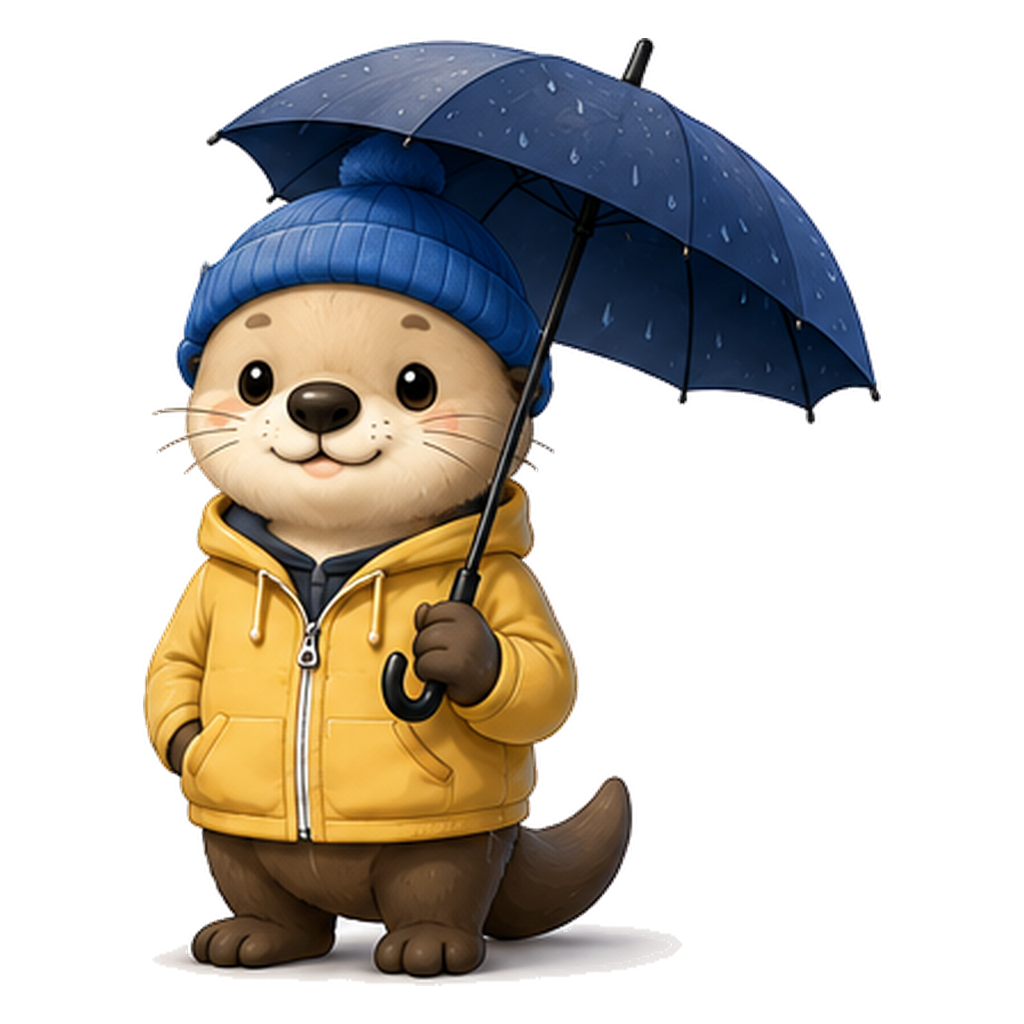
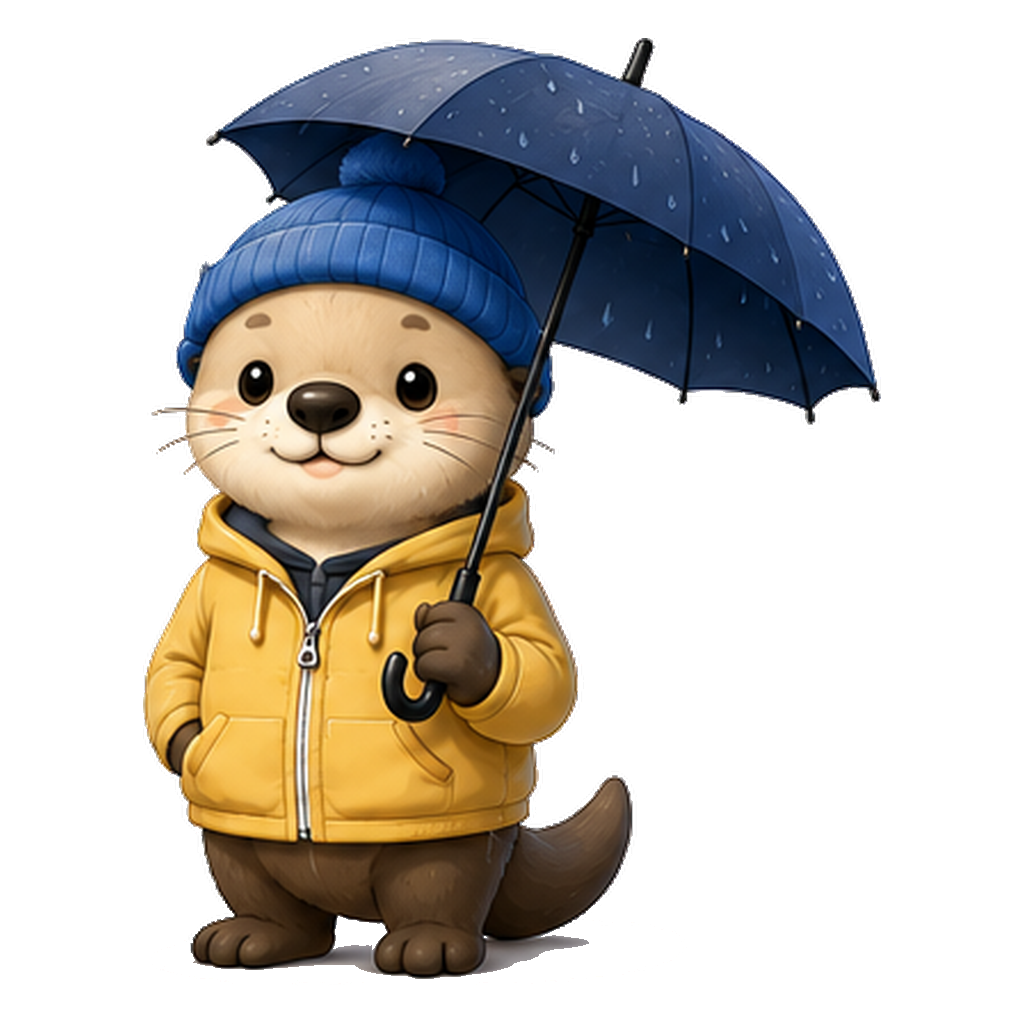
Improve weather refresh, freshness, and otter edges

Changed region(s): [[0.1562, 0.9062, 0.6562, 0.9688]]

diff --git a/assets/app.css b/assets/app.css
@@ -10,14 +10,14 @@
     .header{height:64px;display:flex;align-items:center;justify-content:space-between;gap:18px;margin-bottom:18px}
     .brand{display:flex;align-items:center;gap:12px;font-weight:900;font-size:clamp(20px,2vw,28px);letter-spacing:-.055em}.brand b{color:var(--blue)}
     .brand-cloud{position:relative;width:48px;height:30px;border-radius:20px;background:linear-gradient(145deg,#76b6ff,#1f6ce0);box-shadow:inset 0 -3px 5px rgba(10,67,150,.18)}.brand-cloud:before,.brand-cloud:after{content:"";position:absolute;border-radius:50%;background:inherit}.brand-cloud:before{width:22px;height:22px;left:8px;top:-10px}.brand-cloud:after{width:17px;height:17px;right:6px;top:-4px}.brand-sun{position:absolute;width:13px;height:13px;background:#ffb01c;border-radius:50%;right:-1px;top:-9px;box-shadow:0 0 0 4px rgba(255,176,28,.14)}
-    .header-actions{display:flex;align-items:center;gap:10px}.geo-status{display:flex;align-items:center;gap:8px;min-height:42px;padding:0 15px;border:1px solid var(--line);background:#fff;border-radius:999px;font-weight:750;font-size:13px;box-shadow:0 6px 20px rgba(35,75,132,.07)}.geo-status-dot{width:8px;height:8px;border-radius:50%;background:var(--green);box-shadow:0 0 0 4px rgba(23,133,78,.1)}
+    .header-actions{display:flex;align-items:center;gap:10px}.geo-status{display:flex;align-items:center;gap:8px;min-height:42px;padding:0 15px;border:1px solid var(--line);background:#fff;border-radius:999px;font-weight:750;font-size:13px;box-shadow:0 6px 20px rgba(35,75,132,.07)}.geo-status-dot{width:8px;height:8px;border-radius:50%;background:var(--green);box-shadow:0 0 0 4px rgba(23,133,78,.1)}.refresh-button{width:42px;height:42px;flex:0 0 42px;display:grid;place-items:center;border:1px solid var(--line);border-radius:50%;background:#fff;color:var(--blue);cursor:pointer;box-shadow:0 6px 20px rgba(35,75,132,.07)}.refresh-button:hover{background:#f4f8ff}.refresh-button:focus-visible{outline:3px solid rgba(7,90,216,.24);outline-offset:2px}.refresh-button:disabled{cursor:wait;opacity:.68}.refresh-button svg{width:21px;height:21px}.refresh-button.refreshing svg{animation:refresh-spin .8s linear infinite}@keyframes refresh-spin{to{transform:rotate(360deg)}}
     .units{display:grid;grid-template-columns:1fr 1fr;padding:3px;border:1px solid var(--line);border-radius:999px;background:#fff}.unit-button{width:38px;height:34px;border:0;background:transparent;border-radius:999px;font-weight:850;color:var(--muted);cursor:pointer}.unit-button.active{color:#fff;background:var(--blue)}
     .dashboard{display:grid;grid-template-columns:380px minmax(0,1fr);gap:18px}.left-stack{display:flex;flex-direction:column;gap:18px}
     .card{background:rgba(255,255,255,.94);border:1px solid var(--line);border-radius:var(--radius);box-shadow:var(--shadow)}
     .location-card{padding:22px}.kicker{display:block;margin-bottom:10px;font-size:12px;font-weight:900;letter-spacing:.06em;text-transform:uppercase;color:var(--ink-2)}
     .location-button{width:100%;min-height:86px;padding:0 20px;display:grid;grid-template-columns:28px 1fr 28px;align-items:center;gap:12px;border:3px solid var(--blue);border-radius:18px;background:#fff;box-shadow:0 0 0 5px rgba(7,90,216,.06),0 10px 22px rgba(7,90,216,.08);cursor:pointer;text-align:left}.location-button:hover{background:#f8fbff}.location-button:focus-visible{outline:4px solid rgba(7,90,216,.25);outline-offset:3px}.location-button svg{width:27px;height:27px}.location-name{min-width:0;font-size:clamp(19px,2vw,25px);font-weight:900;letter-spacing:-.035em;overflow:hidden;text-overflow:ellipsis;white-space:nowrap}.chevron{transition:transform .2s ease}.location-button[aria-expanded="true"] .chevron{transform:rotate(180deg)}
     .current-location-button{width:100%;min-height:58px;margin-top:14px;border:0;border-radius:15px;background:linear-gradient(180deg,#1267e4,#0755c8);color:white;font-weight:850;cursor:pointer;display:flex;justify-content:center;align-items:center;gap:10px;box-shadow:0 12px 24px rgba(7,90,216,.18)}.current-location-button:hover{filter:brightness(1.04)}.current-location-button svg{width:21px}
-    .recommendations{display:grid;grid-template-columns:1fr 1fr;gap:12px}.rec-card{padding:18px 16px;min-height:150px;position:relative;overflow:hidden}.rec-top{display:flex;align-items:center;gap:12px}.rec-icon{width:54px;height:54px;border-radius:17px;background:var(--blue-soft);display:grid;place-items:center;font-size:30px}.rec-title{font-weight:900;letter-spacing:-.025em}.rec-status{margin-top:3px;color:var(--green);font-size:13px;font-weight:850}.rec-desc{margin:14px 0 0;color:var(--muted);font-size:13px;line-height:1.45}.check{position:absolute;right:13px;top:13px;width:22px;height:22px;border-radius:50%;background:var(--green);color:#fff;display:grid;place-items:center;font-weight:900;font-size:13px}.rec-card.off .check{background:#aeb9cb}.rec-card.off .rec-status{color:#73819a}.rec-card.off .rec-icon{filter:grayscale(1);opacity:.7}
+    .recommendations{display:grid;grid-template-columns:1fr 1fr;gap:12px}.rec-card{padding:18px 16px;min-height:150px;position:relative;overflow:hidden}.rec-top{display:flex;align-items:center;gap:12px;padding-right:28px}.rec-top>div{min-width:0}.rec-icon{width:54px;height:54px;flex:0 0 54px;border-radius:17px;background:var(--blue-soft);display:grid;place-items:center;font-size:30px}.rec-title{font-weight:900;letter-spacing:-.025em}.rec-status{margin-top:3px;color:var(--green);font-size:13px;font-weight:850}.rec-desc{margin:14px 0 0;color:var(--muted);font-size:13px;line-height:1.45}.check{position:absolute;right:13px;top:13px;width:22px;height:22px;border-radius:50%;background:var(--green);color:#fff;display:grid;place-items:center;font-weight:900;font-size:13px}.rec-card.off .check{background:#aeb9cb}.rec-card.off .rec-status{color:#73819a}.rec-card.off .rec-icon{filter:grayscale(1);opacity:.7}
     .hero{min-height:500px;position:relative;overflow:hidden;border-radius:var(--radius);background:linear-gradient(155deg,#dff0ff 0%,#b9ddff 45%,#eaf7ff 100%);border:1px solid #c9def7;box-shadow:var(--shadow);isolation:isolate}.hero:before{content:"";position:absolute;inset:auto 0 0;height:33%;background:linear-gradient(180deg,rgba(255,255,255,0),rgba(255,255,255,.6)),linear-gradient(90deg,#b7d9ef,#e5f5ff);z-index:-2}.hero:after{content:"";position:absolute;left:-5%;right:-5%;bottom:12%;height:4px;background:rgba(67,114,153,.2);box-shadow:0 12px 18px rgba(63,116,158,.18);transform:rotate(-1deg);z-index:-1}
     .scenery{position:absolute;inset:0;pointer-events:none;z-index:-1;opacity:.64}.bridge{position:absolute;left:43%;bottom:20%;width:32%;height:38%}.bridge:before,.bridge:after{content:"";position:absolute;bottom:0;width:7px;height:100%;background:#8ea6c1;border-radius:4px}.bridge:before{left:18%}.bridge:after{right:18%}.bridge-deck{position:absolute;left:0;right:0;bottom:24%;height:5px;background:#8ea6c1}.bridge-cable{position:absolute;left:18%;right:18%;top:16%;height:45%;border-top:3px solid #8ea6c1;border-radius:50%}.hills{position:absolute;left:-5%;right:-5%;bottom:19%;height:20%;background:#9bb8cc;clip-path:polygon(0 65%,12% 30%,25% 60%,41% 10%,55% 66%,71% 24%,84% 58%,100% 31%,100% 100%,0 100%)}
     .hero-copy{width:55%;padding:38px 0 34px 38px;position:relative;z-index:2}.temp-line{display:flex;align-items:center;gap:14px}.temperature{font-size:clamp(68px,7vw,100px);line-height:.82;font-weight:950;letter-spacing:-.075em}.weather-icon{font-size:47px}.condition{margin-top:13px;font-size:20px;font-weight:900}.high-low{margin-top:5px;font-weight:750;color:var(--ink-2)}.verdict{margin:24px 0 10px;font-size:clamp(34px,3.6vw,52px);line-height:.95;letter-spacing:-.065em;font-weight:950}.reason{max-width:470px;margin:0;color:var(--ink-2);font-size:16px;line-height:1.5;font-weight:600}.provider{position:absolute;left:38px;bottom:18px;font-size:11px;color:#536684;font-weight:700}
@@ -85,5 +85,5 @@
     .toast{position:fixed;z-index:60;left:50%;bottom:calc(20px + var(--safe-bottom));transform:translate(-50%,20px);max-width:min(520px,calc(100% - 28px));padding:13px 17px;border-radius:14px;background:#10244b;color:#fff;font-size:13px;box-shadow:0 18px 45px rgba(0,20,50,.28);opacity:0;pointer-events:none;transition:.22s ease}.toast.show{opacity:1;transform:translate(-50%,0)}
     @media(max-width:900px){.dashboard{grid-template-columns:1fr}.left-stack{display:grid;grid-template-columns:1fr 1fr}.location-card{grid-column:1/-1}.hero{grid-row:1}.bottom-grid{grid-template-columns:1fr}.recommendations{grid-column:1/-1}.hero-copy{width:58%}}
     @media(max-width:620px){.shell{padding-left:12px;padding-right:12px}.header{height:58px;margin-bottom:12px}.brand{font-size:20px}.brand-cloud{transform:scale(.78);margin-right:-4px}.geo-status{display:none}.dashboard{gap:12px}.left-stack{display:flex;gap:12px}.location-card{padding:14px;border-radius:18px}.kicker{font-size:11px;margin:0 0 7px}.location-button{min-height:60px;border-width:2px;border-radius:14px;padding:0 14px;grid-template-columns:22px 1fr 22px}.location-button svg{width:21px;height:21px}.location-name{font-size:18px}.current-location-button{min-height:47px;margin-top:9px;border-radius:12px;font-size:14px}.hero{min-height:390px;border-radius:18px}.hero-copy{width:56%;padding:20px 0 18px 18px}.temperature{font-size:52px}.weather-icon{font-size:28px}.condition{font-size:13px;margin-top:8px}.high-low{font-size:11px}.verdict{font-size:27px;margin:18px 0 8px}.reason{max-width:165px;font-size:11.5px;line-height:1.32}.provider{position:static;margin-top:8px;font-size:9px}.mascot-wrap{right:-5%;width:58%;height:100%}.mascot-image{width:min(100%,360px)}.recommendations{gap:8px}.rec-card{min-height:92px;padding:12px}.rec-icon{width:42px;height:42px;border-radius:13px;font-size:24px}.rec-title{font-size:14px}.rec-desc{display:none}.check{right:9px;top:9px}.bottom-grid{gap:12px;margin-top:12px}.forecast-card,.details-card{padding:15px;border-radius:18px}.section-heading{align-items:flex-start;margin-bottom:13px}.section-title{font-size:16px}.section-subtitle{font-size:11px}.forecast-range{display:none}.hourly-shell{padding:6px;border-radius:16px}.hourly-scroll{grid-auto-columns:76px;gap:6px}.hour{min-height:132px;padding:12px 6px}.hour-icon{font-size:25px;margin:13px 0 9px}.hour-temp{font-size:19px}.details{display:grid;grid-template-columns:repeat(2,minmax(0,1fr));border-radius:16px}.metric{min-height:105px;display:grid;grid-template-columns:36px 1fr;grid-template-rows:auto auto;align-items:start;gap:2px 9px;padding:13px}.metric+.metric{border-left:0}.metric:nth-child(even){border-left:1px solid #e7eef8}.metric:nth-child(n+3){border-top:1px solid #e7eef8}.metric-icon{grid-row:1/3;align-self:start;width:36px;height:36px;border-radius:11px}.metric-icon svg{width:19px;height:19px}.metric-value{grid-column:2;font-size:20px}.metric-copy{grid-column:2}.metric-note{white-space:normal;font-size:9px}.settings{margin-top:12px;padding:13px;display:block;border-radius:18px}.profile-control{margin-top:10px;display:grid;grid-template-columns:repeat(3,1fr)}.profile-button{padding:8px 4px}.footer{padding-top:18px;display:block;text-align:center}.search-form{grid-template-columns:1fr}.search-button{min-height:48px}.modal{padding:18px}.units{transform:scale(.9);transform-origin:right}}
-    @media(max-width:340px){.header{gap:6px}.brand{min-width:0;gap:4px;font-size:17px}.brand-cloud{width:38px;flex:0 0 38px;margin-right:-5px}.header-actions{flex:0 0 auto}.units{margin-left:-5px}}
+    @media(max-width:340px){.header{gap:6px}.brand{min-width:0;gap:4px;font-size:16px}.brand-cloud{display:none}.header-actions{flex:0 0 auto;gap:6px}.refresh-button{width:38px;height:38px;flex-basis:38px}.units{margin-left:-5px}}
     @media(prefers-reduced-motion:reduce){*,*:before,*:after{animation-duration:.001ms!important;transition-duration:.001ms!important}}

diff --git a/assets/app.js b/assets/app.js
@@ -29,9 +29,9 @@
     };
     const storageGet=key=>{try{return localStorage.getItem(key)}catch{return null}};
     const storageSet=(key,value)=>{try{localStorage.setItem(key,value)}catch{}};
-    const state={unit:storageGet("naj.unit")||"fahrenheit",profile:storageGet("naj.profile")||"regular",location:{...CONFIG.defaultLocation,name:"Finding location…"},locationMode:"loading",weather:null,loading:false,dataMode:"loading",mascotToken:0};
+    const state={unit:storageGet("naj.unit")||"fahrenheit",profile:storageGet("naj.profile")||"regular",location:{...CONFIG.defaultLocation,name:"Finding location…"},locationMode:"loading",weather:null,loading:false,dataMode:"loading",mascotToken:0,weatherRequestToken:0};
     const $=id=>document.getElementById(id);
-    const els={locationButton:$("locationButton"),locationName:$("locationName"),geoStatusText:$("geoStatusText"),locationModal:$("locationModal"),closeModal:$("closeModal"),searchForm:$("searchForm"),searchInput:$("searchInput"),searchResults:$("searchResults"),modalStatus:$("modalStatus"),useCurrentLocation:$("useCurrentLocation"),useCurrentLocationTop:$("useCurrentLocationTop"),toast:$("toast"),temperature:$("temperature"),weatherIcon:$("weatherIcon"),condition:$("condition"),highLow:$("highLow"),verdict:$("verdict"),reason:$("reason"),updated:$("updated"),hero:$("hero"),mascot:$("mascot"),mascotImage:$("mascotImage"),jacketCard:$("jacketCard"),jacketIcon:$("jacketIcon"),jacketTitle:$("jacketTitle"),jacketStatus:$("jacketStatus"),jacketDescription:$("jacketDescription"),umbrellaCard:$("umbrellaCard"),umbrellaStatus:$("umbrellaStatus"),umbrellaDescription:$("umbrellaDescription"),feelsLike:$("feelsLike"),feelsNote:$("feelsNote"),wind:$("wind"),windNote:$("windNote"),rain:$("rain"),rainNote:$("rainNote"),sixHourLow:$("sixHourLow"),trendNote:$("trendNote"),hourlyForecast:$("hourlyForecast")};
+    const els={locationButton:$("locationButton"),locationName:$("locationName"),geoStatusText:$("geoStatusText"),refreshWeather:$("refreshWeather"),locationModal:$("locationModal"),closeModal:$("closeModal"),searchForm:$("searchForm"),searchInput:$("searchInput"),searchResults:$("searchResults"),modalStatus:$("modalStatus"),useCurrentLocation:$("useCurrentLocation"),useCurrentLocationTop:$("useCurrentLocationTop"),toast:$("toast"),temperature:$("temperature"),weatherIcon:$("weatherIcon"),condition:$("condition"),highLow:$("highLow"),verdict:$("verdict"),reason:$("reason"),updated:$("updated"),hero:$("hero"),mascot:$("mascot"),mascotImage:$("mascotImage"),jacketCard:$("jacketCard"),jacketIcon:$("jacketIcon"),jacketTitle:$("jacketTitle"),jacketStatus:$("jacketStatus"),jacketDescription:$("jacketDescription"),umbrellaCard:$("umbrellaCard"),umbrellaStatus:$("umbrellaStatus"),umbrellaDescription:$("umbrellaDescription"),feelsLike:$("feelsLike"),feelsNote:$("feelsNote"),wind:$("wind"),windNote:$("windNote"),rain:$("rain"),rainNote:$("rainNote"),sixHourLow:$("sixHourLow"),trendNote:$("trendNote"),hourlyForecast:$("hourlyForecast")};
     const CODES={0:["Clear","☀","clear"],1:["Mostly clear","🌤","clear"],2:["Partly cloudy","⛅","cloud"],3:["Cloudy","☁","cloud"],45:["Foggy","🌫","cloud"],48:["Foggy","🌫","cloud"],51:["Light drizzle","🌦","rain"],53:["Drizzle","🌦","rain"],55:["Heavy drizzle","🌧","rain"],56:["Freezing drizzle","🌧","rain"],57:["Freezing drizzle","🌧","rain"],61:["Light rain","🌦","rain"],63:["Rain","🌧","rain"],65:["Heavy rain","🌧","rain"],66:["Freezing rain","🌧","rain"],67:["Freezing rain","🌧","rain"],71:["Light snow","🌨","snow"],73:["Snow","🌨","snow"],75:["Heavy snow","❄","snow"],77:["Snow grains","❄","snow"],80:["Rain showers","🌦","rain"],81:["Rain showers","🌧","rain"],82:["Heavy showers","⛈","storm"],85:["Snow showers","🌨","snow"],86:["Heavy snow showers","❄","snow"],95:["Thunderstorms","⛈","storm"],96:["Thunderstorms","⛈","storm"],99:["Severe thunderstorms","⛈","storm"]};
     const safeJson=v=>{try{return v?JSON.parse(v):null}catch{return null}};
     const escapeHtml=v=>String(v??"").replace(/[&<>'"]/g,c=>({"&":"&amp;","<":"&lt;",">":"&gt;","'":"&#39;",'"':"&quot;"}[c]));
@@ -141,7 +141,25 @@
     function setLoading(value){state.loading=value}
     let toastTimer;
     function toast(message){clearTimeout(toastTimer);els.toast.textContent=message;els.toast.classList.add("show");toastTimer=setTimeout(()=>els.toast.classList.remove("show"),5200)}
-    function relativeTime(iso){const mins=Math.max(0,Math.round((Date.now()-new Date(iso).getTime())/60000));return mins<=1?"Updated just now":mins<60?`Updated ${mins} min ago`:`Updated ${new Date(iso).toLocaleTimeString([],{hour:"numeric",minute:"2-digit"})}`}
+    function relativeTime(iso){
+      const seconds=Math.max(0,Math.floor((Date.now()-new Date(iso).getTime())/1000));
+      if(seconds<60)return"Updated just now";
+      const minutes=Math.floor(seconds/60);if(minutes<60)return`Updated ${minutes}m ago`;
+      const hours=Math.floor(minutes/60);if(hours<24)return`Updated ${hours}h ago`;
+      return`Updated ${Math.floor(hours/24)}d ago`;
+    }
+    function updateFreshness(){
+      if(!state.weather)return;
+      const status=state.dataMode==="cached"?"Saved forecast":state.dataMode==="demo"?"Preview weather":"Live weather";
+      els.updated.textContent=`${status} · ${relativeTime(state.weather.fetchedAt||state.weather.updatedAt)}`;
+    }
+    function renderPendingWeather(){
+      els.temperature.textContent="—";els.weatherIcon.textContent="";els.condition.textContent="Updating conditions…";els.highLow.textContent="";
+      els.verdict.textContent="Checking outside…";els.reason.textContent=`Getting the latest six-hour outlook for ${state.location.name}.`;els.updated.textContent="";
+      els.jacketStatus.textContent="Updating";els.umbrellaStatus.textContent="Updating";els.hourlyForecast.innerHTML="";
+      els.feelsLike.textContent="—";els.wind.textContent="—";els.rain.textContent="—";els.sixHourLow.textContent="—";
+      els.mascotImage.style.backgroundImage="none";els.mascotImage.classList.remove("ready","changing");
+    }
 
     function render(){
       document.querySelectorAll(".unit-button").forEach(button=>button.classList.toggle("active",button.dataset.unit===state.unit));
@@ -174,8 +192,7 @@
       els.verdict.innerHTML=copy.headline;
       const profileText=decision.offset===0?"":` Your ${state.profile==="hot"?"Always hot":"Always cold"} profile shifts that to ${temp(decision.adjustedP10)}.`;
       els.reason.textContent=`The cold-end feels-like for the next six hours is ${temp(decision.p10)}.${profileText}`;
-      const status=state.dataMode==="cached"?"Saved forecast":state.dataMode==="demo"?"Preview weather":"Live weather";
-      els.updated.textContent=`${status} · ${relativeTime(weather.fetchedAt||weather.updatedAt)}`;
+      updateFreshness();
 
       updateMascot(decision.key,umbrellaYes);
       els.jacketIcon.textContent=copy.icon;
@@ -209,17 +226,21 @@
       }).join("");
     }
 
-    async function loadWeather(location,mode="manual"){
+    async function loadWeather(location,mode="manual",{preserveCurrent=false}={}){
+      const requestToken=++state.weatherRequestToken;
       setLoading(true);
       state.location=location;
       state.locationMode=mode;
+      if(!preserveCurrent)state.weather=null;
       render();
+      if(!preserveCurrent)renderPendingWeather();
       try{
         let data,primaryError;
         if(CONFIG.weatherCompanyProxy){
           try{data=await fetchWeatherCompanyProxy(location)}catch(error){primaryError=error;console.warn("Primary provider failed",error)}
         }
         if(!data)data=await fetchOpenMeteo(location);
+        if(requestToken!==state.weatherRequestToken)return;
         data.fetchedAt=new Date().toISOString();
         state.weather=data;
         state.dataMode=data.provider==="Weather demo"?"demo":"live";
@@ -229,11 +250,19 @@
         render();
         if(primaryError)toast("The primary weather source was unavailable; a live forecast is still shown.");
       }catch(error){
+        if(requestToken!==state.weatherRequestToken)return;
         console.error(error);
         const cached=loadCache(location);
         if(cached){state.weather=cached.data;state.dataMode="cached";render();toast("Showing the most recent saved forecast.")}
         else{state.dataMode="error";els.updated.textContent="Weather unavailable";els.condition.textContent="Could not load weather";els.reason.textContent="Check your connection and try again.";toast("Weather could not be loaded.")}
-      }finally{setLoading(false)}
+      }finally{if(requestToken===state.weatherRequestToken)setLoading(false)}
+    }
+
+    async function refreshWeather(){
+      if(state.loading||!Number.isFinite(state.location?.latitude)||!Number.isFinite(state.location?.longitude))return;
+      els.refreshWeather.disabled=true;els.refreshWeather.classList.add("refreshing");
+      try{await loadWeather({...state.location},state.locationMode,{preserveCurrent:true})}
+      finally{els.refreshWeather.disabled=false;els.refreshWeather.classList.remove("refreshing")}
     }
 
     async function fetchWeatherCompanyProxy(location){
@@ -349,7 +378,9 @@
     els.searchForm.addEventListener("submit",event=>{event.preventDefault();searchLocations(els.searchInput.value)});
     els.useCurrentLocation.addEventListener("click",()=>requestCurrentLocation().catch(()=>{}));
     els.useCurrentLocationTop.addEventListener("click",()=>requestCurrentLocation().catch(()=>{}));
+    els.refreshWeather.addEventListener("click",refreshWeather);
 
     render();
     initializeLocation();
+    setInterval(updateFreshness,30000);
   })();

diff --git a/index.html b/index.html
@@ -14,6 +14,9 @@
       <div class="brand" aria-label="needajacket.today"><span class="brand-cloud" aria-hidden="true"><span class="brand-sun"></span></span><span>needa<b>jacket</b>.today</span></div>
       <div class="header-actions">
         <div class="geo-status" id="geoStatus"><span aria-hidden="true">⌖</span><span id="geoStatusText">Loading weather</span><span class="geo-status-dot"></span></div>
+        <button class="refresh-button" id="refreshWeather" type="button" aria-label="Refresh weather" title="Refresh weather">
+          <svg viewBox="0 0 24 24" fill="none" aria-hidden="true"><path d="M20 7v5h-5M4 17v-5h5" stroke="currentColor" stroke-width="2.2" stroke-linecap="round" stroke-linejoin="round"/><path d="M6.1 8.4A7 7 0 0 1 18.7 7M17.9 15.6A7 7 0 0 1 5.3 17" stroke="currentColor" stroke-width="2.2" stroke-linecap="round"/></svg>
+        </button>
         <div class="units" aria-label="Temperature units"><button class="unit-button active" data-unit="fahrenheit" type="button">°F</button><button class="unit-button" data-unit="celsius" type="button">°C</button></div>
       </div>
     </header>

diff --git a/scripts/remove_white_alpha_fringe.py b/scripts/remove_white_alpha_fringe.py
@@ -1,0 +1,109 @@
+#!/usr/bin/env python3
+"""Remove low-alpha white matte pixels from transparent WebP cutouts."""
+
+from __future__ import annotations
+
+import argparse
+import hashlib
+import json
+from pathlib import Path
+
+from PIL import Image, ImageFilter
+
+
+def clean(path: Path) -> tuple[int, int]:
+    image = Image.open(path).convert("RGBA")
+    pixels = bytearray(image.tobytes())
+    alpha = image.getchannel("A")
+    transparent = alpha.point(lambda value: 255 if value == 0 else 0)
+    near_transparent = transparent.filter(ImageFilter.MaxFilter(7)).tobytes()
+    removed = 0
+    unmatted = 0
+    shadow_cutoff = round(image.height * 0.88)
+
+    for offset in range(0, len(pixels), 4):
+        red, green, blue, alpha = pixels[offset : offset + 4]
+        row = (offset // 4) // image.width
+        if alpha == 0:
+            continue
+
+        # The generated sheets include a pale studio floor ellipse beneath
+        # each character. It reads as loose white pixels once composited over
+        # a photographic weather scene, so remove only that bottom neutral.
+        if row >= shadow_cutoff and min(red, green, blue) > 150 and max(red, green, blue) - min(red, green, blue) < 45:
+            pixels[offset : offset + 4] = bytes((0, 0, 0, 0))
+            removed += 1
+            continue
+
+        # Remove the thin neutral-white outline baked into the cutout, but
+        # only where it touches the transparent exterior. Interior whites
+        # such as eyes, fur highlights, and raindrops remain untouched.
+        if near_transparent[offset // 4] and min(red, green, blue) > 210 and max(red, green, blue) - min(red, green, blue) < 35:
+            pixels[offset : offset + 4] = bytes((0, 0, 0, 0))
+            removed += 1
+            continue
+
+        if alpha == 255:
+            continue
+
+        # The source cutouts contain thousands of nearly white, low-opacity
+        # pixels outside the subject. They become visible as a white fringe on
+        # dark weather backgrounds and are not part of the otter artwork.
+        if alpha < 220 and min(red, green, blue) > 235:
+            pixels[offset : offset + 4] = bytes((0, 0, 0, 0))
+            removed += 1
+            continue
+
+        # Remove the remaining white matte contribution while retaining the
+        # existing alpha coverage and all fully opaque source pixels.
+        for channel in range(3):
+            value = pixels[offset + channel]
+            value = 255 + round((value - 255) * 255 / alpha)
+            pixels[offset + channel] = max(0, min(255, value))
+        unmatted += 1
+
+    cleaned = Image.frombytes("RGBA", image.size, bytes(pixels))
+    cleaned.save(path, "WEBP", lossless=True, method=6, exact=True)
+    return removed, unmatted
+
+
+def update_manifest(directory: Path) -> None:
+    manifest_path = directory / "manifest.json"
+    if not manifest_path.is_file():
+        return
+
+    manifest = json.loads(manifest_path.read_text())
+    states = {state["file"]: state for state in manifest.get("states", [])}
+    for path in directory.glob("*.webp"):
+        state = states.get(path.name)
+        if state is None:
+            continue
+        data = path.read_bytes()
+        image = Image.open(path).convert("RGBA")
+        alpha = image.getchannel("A")
+        state["bytes"] = len(data)
+        state["sha256"] = hashlib.sha256(data).hexdigest()
+        state["alpha_bbox"] = list(alpha.getbbox() or (0, 0, 0, 0))
+        state["subject_coverage"] = round(
+            sum(1 for value in alpha.getdata() if value) / (image.width * image.height), 4
+        )
+
+    manifest_path.write_text(json.dumps(manifest, indent=2) + "\n")
+
+
+def main() -> None:
+    parser = argparse.ArgumentParser(description=__doc__)
+    parser.add_argument("paths", nargs="+", type=Path)
+    args = parser.parse_args()
+
+    directories: set[Path] = set()
+    for path in args.paths:
+        removed, unmatted = clean(path)
+        directories.add(path.parent)
+        print(f"{path}: removed={removed} unmatted={unmatted}")
+    for directory in directories:
+        update_manifest(directory)
+
+
+if __name__ == "__main__":
+    main()
